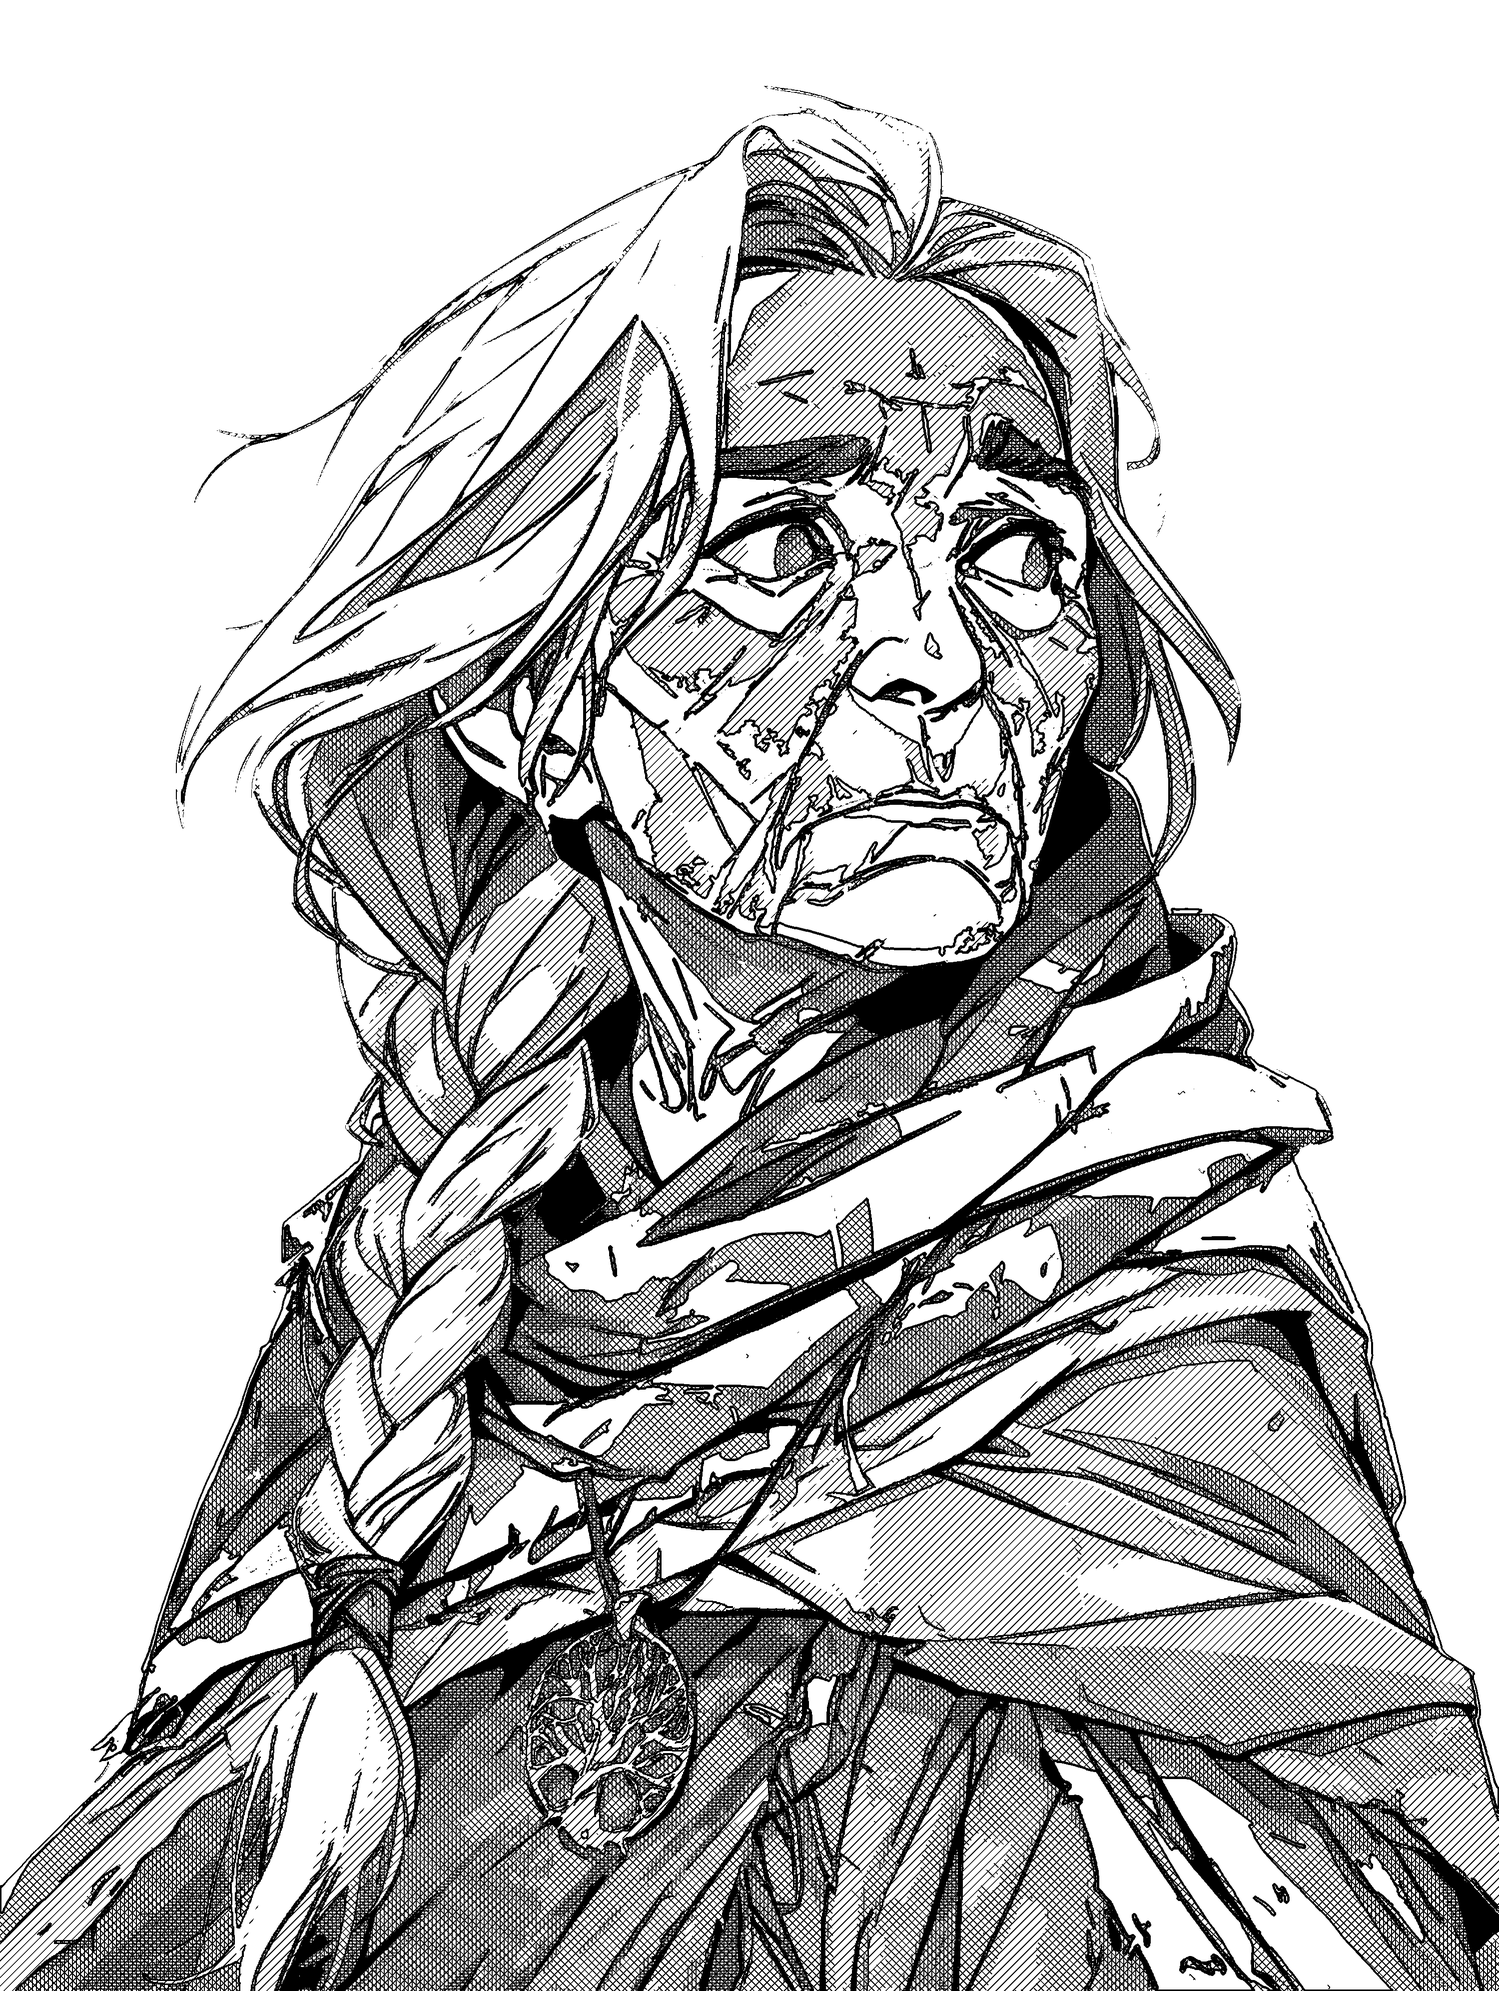
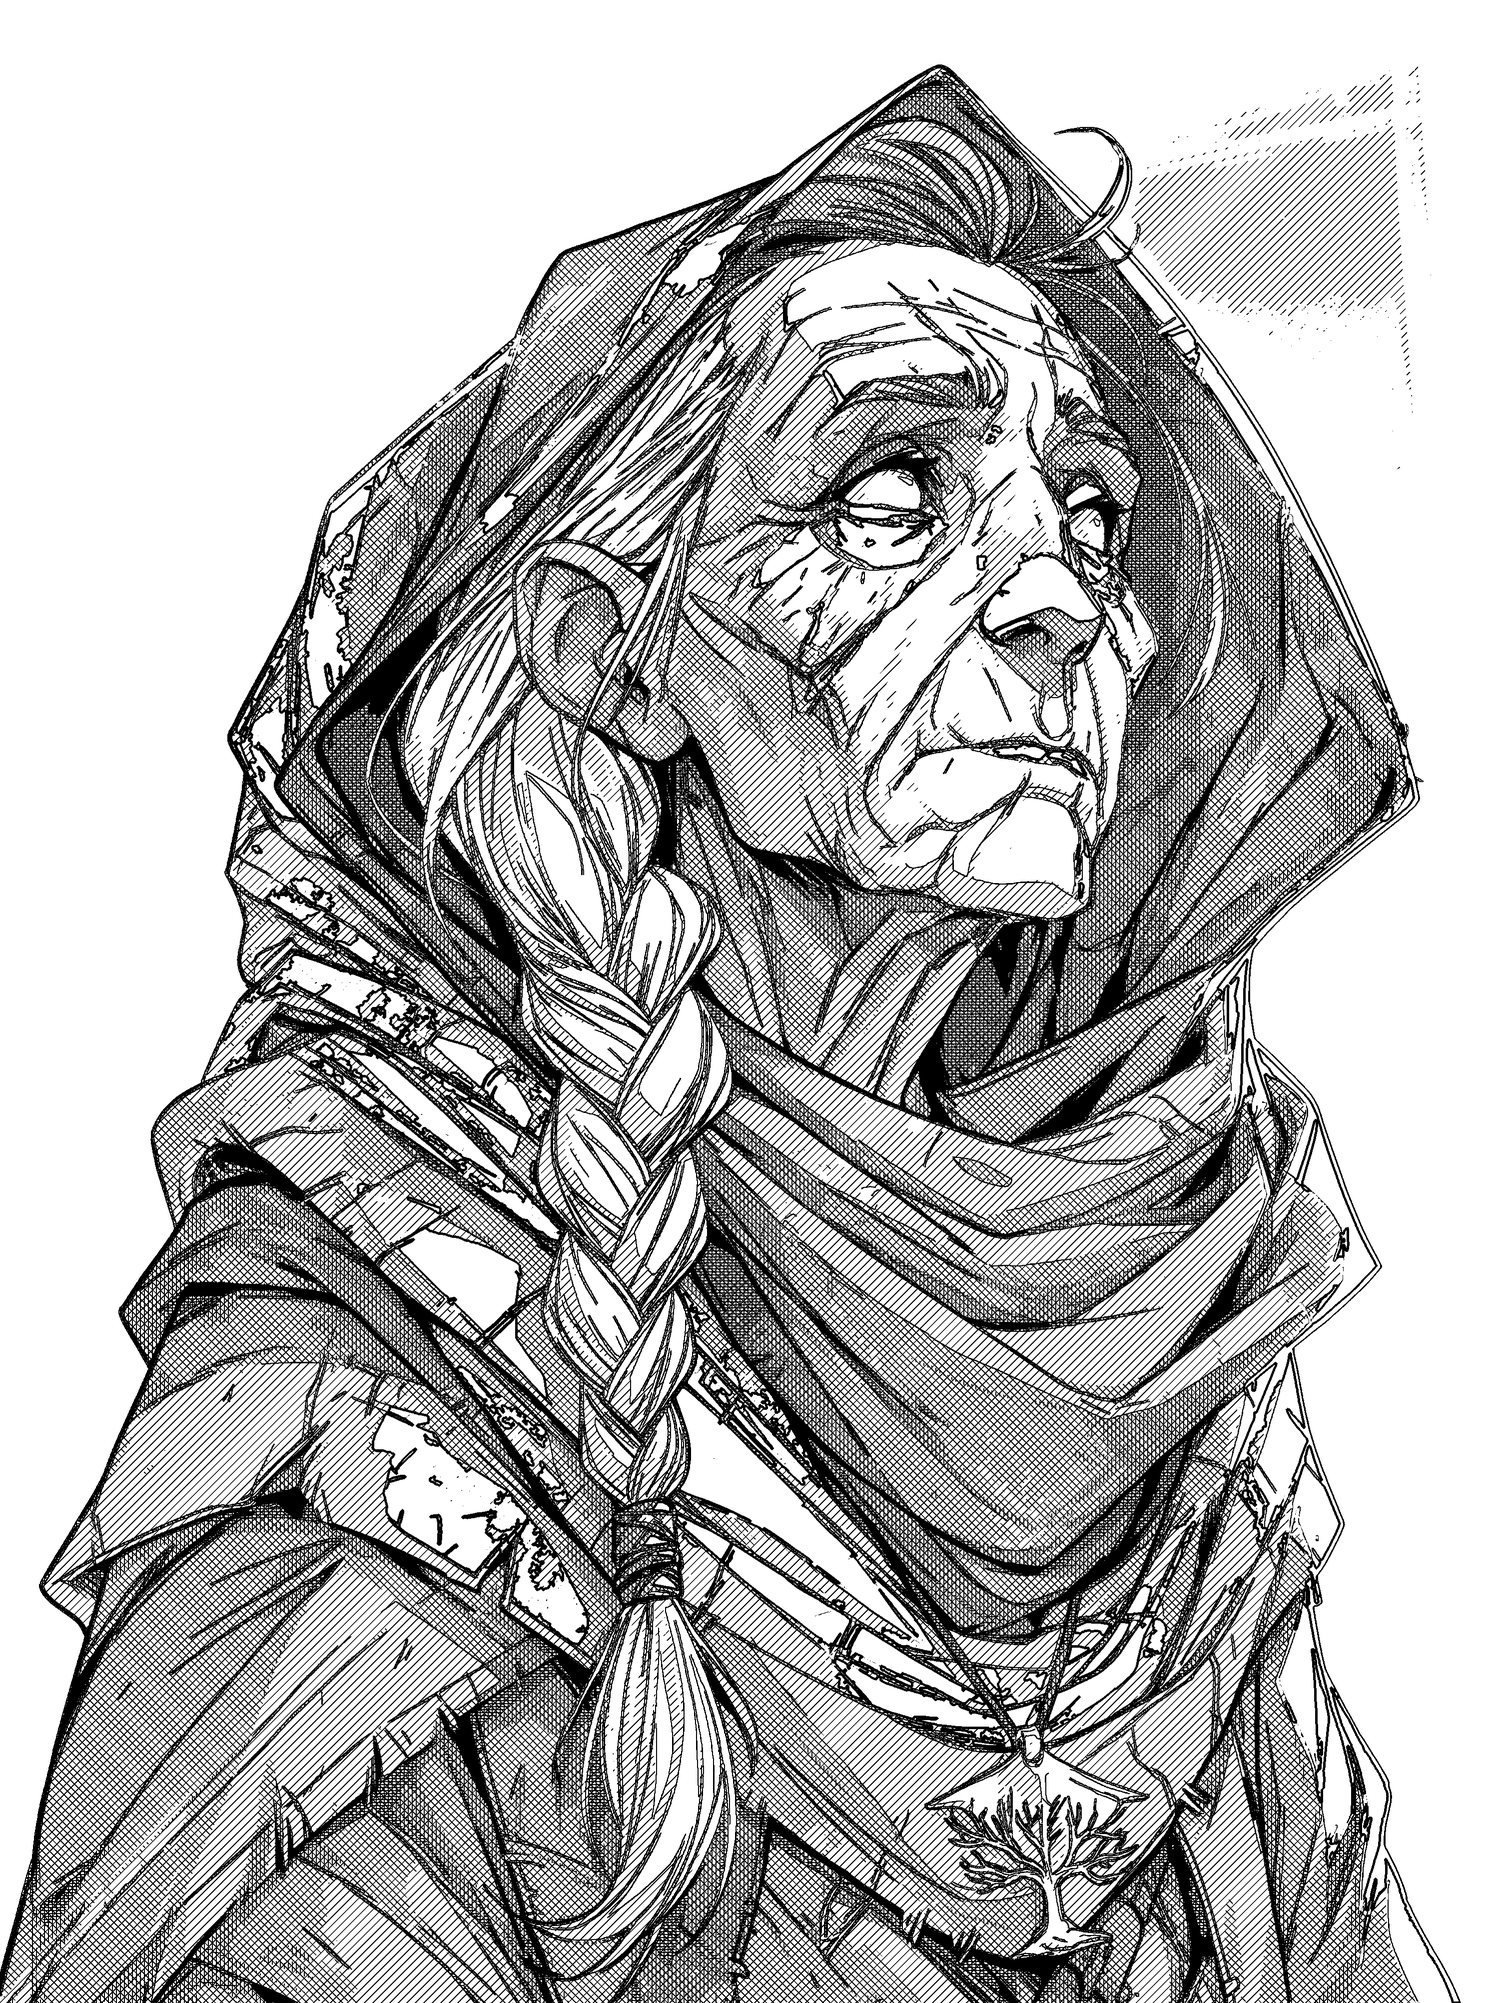
vault auto-sync: 19 files changed
Affected files:
10-Adventures/In Development/SP-GS02 — The Long Night at Candlecrown/SP-GS02 — Art Brief.md
99-Assets/SP-GS02/_alternates/SP-GS02 - 11 Brannoc Tull (v1).png
99-Assets/SP-GS02/_alternates/SP-GS02 - 11 Brannoc Tull-color (v1).png
99-Assets/SP-GS02/_alternates/SP-GS02 - 12 Old Mother Sedge (v1).png
99-Assets/SP-GS02/_alternates/SP-GS02 - 12 Old Mother Sedge-color (v1).png
99-Assets/SP-GS02/portraits/SP-GS02 - 11 Brannoc Tull-color.png
99-Assets/SP-GS02/portraits/SP-GS02 - 11 Brannoc Tull.png
99-Assets/SP-GS02/portraits/SP-GS02 - 12 Old Mother Sedge-color.png
99-Assets/SP-GS02/portraits/SP-GS02 - 12 Old Mother Sedge.png
99-Assets/SP-GS02/portraits/SP-GS02 - 13 Wenna Tull-color.png
99-Assets/SP-GS02/portraits/SP-GS02 - 13 Wenna Tull.png
99-Assets/SP-GS02/portraits/SP-GS02 - 14 Corin the Shepherd-color.png
99-Assets/SP-GS02/portraits/SP-GS02 - 14 Corin the Shepherd.png
99-Assets/SP-GS02/portraits/SP-GS02 - 15 Pell and Ash-color.png
99-Assets/SP-GS02/portraits/SP-GS02 - 15 Pell and Ash.png
99-Assets/SP-GS02/portraits/SP-GS02 - 16 Dob Kettle and Tansy-color.png
99-Assets/SP-GS02/portraits/SP-GS02 - 16 Dob Kettle and Tansy.png
99-Assets/SP-GS02/portraits/SP-GS02 - 17 Aurel Vasch-color.png
99-Assets/SP-GS02/portraits/SP-GS02 - 17 Aurel Vasch.png

diff --git a/10-Adventures/In Development/SP-GS02 — The Long Night at Candlecrown/SP-GS02 — Art Brief.md b/10-Adventures/In Development/SP-GS02 — The Long Night at Candlecrown/SP-GS02 — Art Brief.md
@@ -93,7 +93,7 @@ a small underground chapel cut in rock, a great hammer carved above a plain ston
 > [!success] Final (2026-11-22)
 > **Ink:** `99-Assets/SP-GS02/SP-GS02 - 05 The Knock at the Gate.png` (1-bit, 3000 × 4500 at 600 dpi). Converted from the colour render to house crosshatching.
 > **Colour:** `SP-GS02 - 05 The Knock at the Gate-color.png`.
-> Note: the render shows Aurel in front of a closed gate on the child's side, with no salt line. Caption it so he reads as standing at the threshold.
+> Note: this render shows Aurel as old and bald, but his portrait (17) and NPC note make him about thirty with dark hair. Re-roll to match. It also shows him in front of a closed gate on the child's side, with no salt line. Caption it so he reads as standing at the threshold.
 > ![[SP-GS02 - 05 The Knock at the Gate.png|400]]
 
 **Ink:**
@@ -140,7 +140,7 @@ a towering giant of translucent blue ice covered in tiny glowing runes climbing 
 ## NPC portraits (vignette)
 ### 11 Brannoc Tull
 > [!success] Final (2026-11-22)
-> **Ink:** `99-Assets/SP-GS02/portraits/SP-GS02 - 11 Brannoc Tull.png` (1-bit, 3000 px wide at 600 dpi, plain white background). Converted from the colour render to house crosshatching.
+> **Ink:** `99-Assets/SP-GS02/portraits/SP-GS02 - 11 Brannoc Tull.png` (1-bit, 3000 px wide at 600 dpi, plain white background). Second render; v1 in `_alternates/`.
 > **Colour:** `portraits/SP-GS02 - 11 Brannoc Tull-color.png`.
 > ![[SP-GS02 - 11 Brannoc Tull.png|250]]
 
@@ -155,7 +155,7 @@ a broad sixty-year-old village elder and lantern-maker with a grey beard singed 
 
 ### 12 Old Mother Sedge
 > [!success] Final (2026-11-22)
-> **Ink:** `99-Assets/SP-GS02/portraits/SP-GS02 - 12 Old Mother Sedge.png` (1-bit, 3000 px wide at 600 dpi, plain white background). Converted from the colour render to house crosshatching.
+> **Ink:** `99-Assets/SP-GS02/portraits/SP-GS02 - 12 Old Mother Sedge.png` (1-bit, 3000 px wide at 600 dpi, plain white background). Second render; v1 in `_alternates/`.
 > **Colour:** `portraits/SP-GS02 - 12 Old Mother Sedge-color.png`.
 > ![[SP-GS02 - 12 Old Mother Sedge.png|250]]
 
@@ -169,6 +169,11 @@ a tiny very old woman wrapped in many wool shawls of faded colors, a single long
 ```
 
 ### 13 Wenna Tull
+> [!success] Final (2026-11-22)
+> **Ink:** `99-Assets/SP-GS02/portraits/SP-GS02 - 13 Wenna Tull.png` (1-bit, 3000 px wide at 600 dpi, plain white background). Converted from the colour render to house crosshatching.
+> **Colour:** `portraits/SP-GS02 - 13 Wenna Tull-color.png`.
+> ![[SP-GS02 - 13 Wenna Tull.png|250]]
+
 **Ink:**
 ```
 a tall broad-shouldered young woman with long hair, mouth closed, hands folded, a slate hung on a cord at her neck, vignette, the figure fading into bare white paper at the edges, no background scenery, classic 1970s fantasy role-playing game module character portrait, black ink pen-and-ink drawing on pure white paper, head and shoulders, bold contour lines, crosshatched shadow on one side of the face, stippled skin texture, plain white background, high contrast black and white line art --ar 4:5 --v 8.1 --style raw --stylize 75 --seed 57602 --no color, grey wash, gradient shading, painting, watercolor, 3d render, photograph, text, letters, signature, watermark, background, room, interior, scenery, frame, border
@@ -179,6 +184,11 @@ a tall broad-shouldered young woman with long red hair, hands folded, a slate on
 ```
 
 ### 14 Corin the Shepherd
+> [!success] Final (2026-11-22)
+> **Ink:** `99-Assets/SP-GS02/portraits/SP-GS02 - 14 Corin the Shepherd.png` (1-bit, 3000 px wide at 600 dpi, plain white background). Converted from the colour render to house crosshatching.
+> **Colour:** `portraits/SP-GS02 - 14 Corin the Shepherd-color.png`.
+> ![[SP-GS02 - 14 Corin the Shepherd.png|250]]
+
 **Ink:**
 ```
 a weathered gentle shepherd in a wool hood holding a crook, a scruffy sheepdog's head at his knee, vignette, the figure fading into bare white paper at the edges, no background scenery, classic 1970s fantasy role-playing game module character portrait, black ink pen-and-ink drawing on pure white paper, head and shoulders, bold contour lines, crosshatched shadow on one side of the face, stippled skin texture, plain white background, high contrast black and white line art --ar 4:5 --v 8.1 --style raw --stylize 75 --seed 57602 --no color, grey wash, gradient shading, painting, watercolor, 3d render, photograph, text, letters, signature, watermark, background, room, interior, scenery, frame, border
@@ -189,6 +199,11 @@ a weathered gentle shepherd in a grey wool hood holding a crook, a scruffy brown
 ```
 
 ### 15 Pell and Ash
+> [!success] Final (2026-11-22)
+> **Ink:** `99-Assets/SP-GS02/portraits/SP-GS02 - 15 Pell and Ash.png` (1-bit, 3000 px wide at 600 dpi, plain white background). Converted from the colour render to house crosshatching.
+> **Colour:** `portraits/SP-GS02 - 15 Pell and Ash-color.png`.
+> ![[SP-GS02 - 15 Pell and Ash.png|250]]
+
 **Ink:**
 ```
 identical freckled young twin brothers side by side, sawdust in their hair, one with a dark scarf and one with a pale scarf, grinning, vignette, the figure fading into bare white paper at the edges, no background scenery, classic 1970s fantasy role-playing game module character portrait, black ink pen-and-ink drawing on pure white paper, head and shoulders, bold contour lines, crosshatched shadow on one side of the face, stippled skin texture, plain white background, high contrast black and white line art --ar 4:5 --v 8.1 --style raw --stylize 75 --seed 57602 --no color, grey wash, gradient shading, painting, watercolor, 3d render, photograph, text, letters, signature, watermark, background, room, interior, scenery, frame, border
@@ -199,6 +214,11 @@ identical freckled young twin brothers side by side, sawdust in their hair, one 
 ```
 
 ### 16 Dob Kettle and Tansy
+> [!success] Final (2026-11-22)
+> **Ink:** `99-Assets/SP-GS02/portraits/SP-GS02 - 16 Dob Kettle and Tansy.png` (1-bit, 3000 px wide at 600 dpi, plain white background). Converted from the colour render to house crosshatching.
+> **Colour:** `portraits/SP-GS02 - 16 Dob Kettle and Tansy-color.png`.
+> ![[SP-GS02 - 16 Dob Kettle and Tansy.png|250]]
+
 **Ink:**
 ```
 a lean gate-warden with a frosted drooping moustache holding a lantern on a long pole, a small girl in an oversized hood at his side, vignette, the figure fading into bare white paper at the edges, no background scenery, classic 1970s fantasy role-playing game module character portrait, black ink pen-and-ink drawing on pure white paper, head and shoulders, bold contour lines, crosshatched shadow on one side of the face, stippled skin texture, plain white background, high contrast black and white line art --ar 4:5 --v 8.1 --style raw --stylize 75 --seed 57602 --no color, grey wash, gradient shading, painting, watercolor, 3d render, photograph, text, letters, signature, watermark, background, room, interior, scenery, frame, border
@@ -209,6 +229,11 @@ a lean gate-warden with a frost-white drooping moustache holding a lantern on a 
 ```
 
 ### 17 Aurel Vasch
+> [!success] Final (2026-11-22)
+> **Ink:** `99-Assets/SP-GS02/portraits/SP-GS02 - 17 Aurel Vasch.png` (1-bit, 3000 px wide at 600 dpi, plain white background). Converted from the colour render to house crosshatching.
+> **Colour:** `portraits/SP-GS02 - 17 Aurel Vasch-color.png`.
+> ![[SP-GS02 - 17 Aurel Vasch.png|250]]
+
 **Ink:**
 ```
 a pale handsome man of about thirty, dark hair, a fine frost-stiffened traveling cloak, polite tired eyes, snow on his shoulders, vignette, the figure fading into bare white paper at the edges, no background scenery, classic 1970s fantasy role-playing game module character portrait, black ink pen-and-ink drawing on pure white paper, head and shoulders, bold contour lines, crosshatched shadow on one side of the face, stippled skin texture, plain white background, high contrast black and white line art --ar 4:5 --v 8.1 --style raw --stylize 75 --seed 57602 --no color, grey wash, gradient shading, painting, watercolor, 3d render, photograph, text, letters, signature, watermark, background, room, interior, scenery, frame, border
@@ -223,14 +248,47 @@ a pale handsome man of about thirty with dark hair, a fine frost-stiffened dark 
 ```
 four rough charcoal sketches on a board of pale pine wood, made by an untrained hand: a giant covered in small scratch marks beside a tiny man with a shepherd's crook, a man at a sheepfold singing with little birds coming from his mouth, a line from the man's mouth to a circled mark on the giant's chest, a six-sided lantern beside a seventh pane scribbled over so hard the wood is torn, naive childlike drawing, smudged charcoal --ar 3:2 --v 8.1 --style raw --stylize 50 --seed 57602 --no color, text, letters, signature, watermark
 ```
+**Colour:**
+```
+a board of pale packing pine lying on a workbench, four rough charcoal sketches drawn on it by an untrained hand: a giant covered in small scratch marks beside a tiny man with a shepherd's crook, a man at a sheepfold with little birds flying from his open mouth, a line from his mouth to a circled mark on the giant's chest, a six-sided lantern beside a seventh pane scribbled over so hard the wood is torn, charcoal smudges and wood shavings, warm lantern light from one side, seen from above, stylized fantasy tabletop RPG illustration, crisp painted digital game art, clean confident linework with painterly cel-like shading, vivid but controlled color, soft rim light --ar 3:2 --v 8.1 --stylize 150 --seed 57602 --no text, letters, words, writing, numbers, signature, watermark, frame, border
+```
 
 ### H2 The Apprentice's Carving
 ```
 a stone wall carved with close lines of two scripts side by side, one of plain old block letters and one of strange angular characters, a hammer carved above, chisel marks, rendered as a rubbing in black on white paper, classic 1970s fantasy role-playing game module illustration, black ink on white paper, heavy chiaroscuro with large masses of solid black, dense crosshatching and contour hatching, scratchboard-style white line work in the darkest areas, every surface richly textured by hand, hard torchlit shadows, high contrast black and white line art --ar 3:2 --v 8.1 --style raw --stylize 75 --seed 57602 --no color, grey wash, gradient shading, painting, watercolor, 3d render, photograph, text, letters, signature, watermark
+```
+**Colour:**
+```
+close-up of a rough stone chapel wall deep underground, a great hammer carved at the top, below it two columns of close-cut carved characters side by side, one of plain blocky marks and one of sharp angular runes, chisel marks, a sheet of paper half pressed against the stone with a charcoal rubbing begun on it, warm orange lantern light raking across the carving, cold blue shadows, stylized fantasy tabletop RPG illustration, crisp painted digital game art, clean confident linework with painterly cel-like shading, vivid but controlled color, soft rim light --ar 3:2 --v 8.1 --stylize 150 --seed 57602 --no text, letters, words, writing, numbers, signature, watermark, frame, border
 ```
 *The script is decorative only; the readable text is in [[SP-GS02 — Handout — The Apprentice's Carving]]. Never put a readable seventh verse in any image.*
 
 ### H3 The Carol Lantern (spot)
 ```
 a six-sided lantern of pierced tin with six painted glass panes showing small winter scenes, hanging from a chain, a spot illustration alone on bare white paper with a small black cast shadow beneath it, classic 1970s fantasy role-playing game rulebook illustration, black ink pen-and-ink drawing on pure white paper, bold hand-inked contour lines, crosshatching and stippling for shadow --ar 3:4 --v 8.1 --style raw --stylize 75 --seed 57602 --no color, grey wash, gradient shading, painting, watercolor, 3d render, photograph, text, letters, signature, watermark
+```
+**Colour:**
+```
+a six-sided lantern of pierced tin hanging from a chain, six painted glass panes glowing warm gold, each pane showing a tiny winter scene, holes in the tin throwing star-shaped specks of light, a spot illustration alone on a soft light cream background with a gentle vignette, stylized fantasy tabletop RPG illustration, crisp painted digital game art, clean confident linework with painterly cel-like shading, vivid but controlled color, soft rim light --ar 3:4 --v 8.1 --stylize 150 --seed 57602 --no text, letters, words, writing, numbers, signature, watermark, dark background, black background, frame, border
+```
+
+### H4 Aunt Sedge's Letter (prop)
+*Background for the letter; the text from [[SP-GS02 — Handout — Aunt Sedge's Letter]] is set over it in layout.*
+**Colour:**
+```
+a folded letter on rough cream paper with a smear of red sealing wax, a sprig of dried pine and a small twist of grey wool lying on it, the paper left blank and empty for handwriting, a battered table by a window with snow outside, soft cold window light and a warm candle, stylized fantasy tabletop RPG illustration, crisp painted digital game art, clean confident linework with painterly cel-like shading, vivid but controlled color, soft rim light --ar 3:4 --v 8.1 --stylize 150 --seed 57602 --no text, letters, words, writing, numbers, signature, watermark, ink, handwriting
+```
+
+### H5 The Long Night Carol (songsheet)
+*Decorated border only; the six verses are set in layout. Never add a seventh.*
+**Colour:**
+```
+a blank songsheet of thick cream paper with a painted border of holly, pine sprigs, little lanterns, snowflakes and a frost-bearded winter god at the top, the middle of the page left empty and clean for text, warm and festive, stylized fantasy tabletop RPG illustration, crisp painted digital game art, clean confident linework with painterly cel-like shading, vivid but controlled color, soft rim light --ar 3:4 --v 8.1 --stylize 150 --seed 57602 --no text, letters, words, writing, numbers, signature, watermark, frame
+```
+
+### H6 The Miners' Map (player map)
+*Blank hide map; add the labels from [[SP-GS02 — Handout — The Miners' Map]] in Canva, as with T1.*
+**Colour:**
+```
+an old survey map of a mine drawn in faded brown ink on a stretched sheet of pale hide, a square at the top, a long shaft line running down, short side tunnels, a small hammer symbol, a circle for water, a crossing of four tunnels, a long seam running off to the ragged edge of the hide, stitched edges, stains and creases, no labels, seen flat from above, stylized fantasy tabletop RPG illustration, crisp painted digital game art, clean confident linework with painterly cel-like shading, vivid but controlled color, soft rim light --ar 3:2 --v 8.1 --stylize 150 --seed 57602 --no text, letters, words, writing, numbers, signature, watermark, labels, compass rose
 ```
